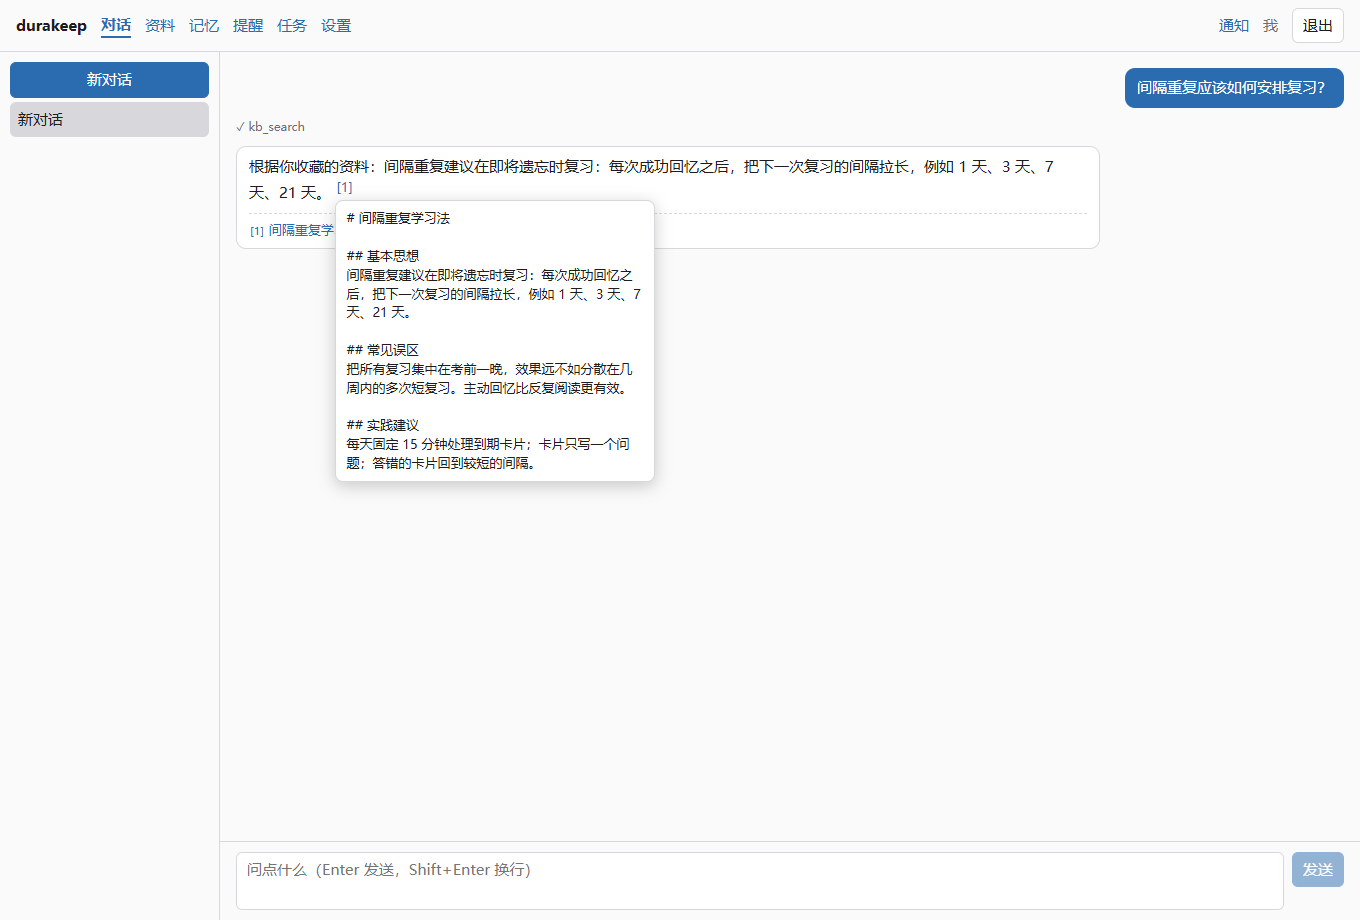
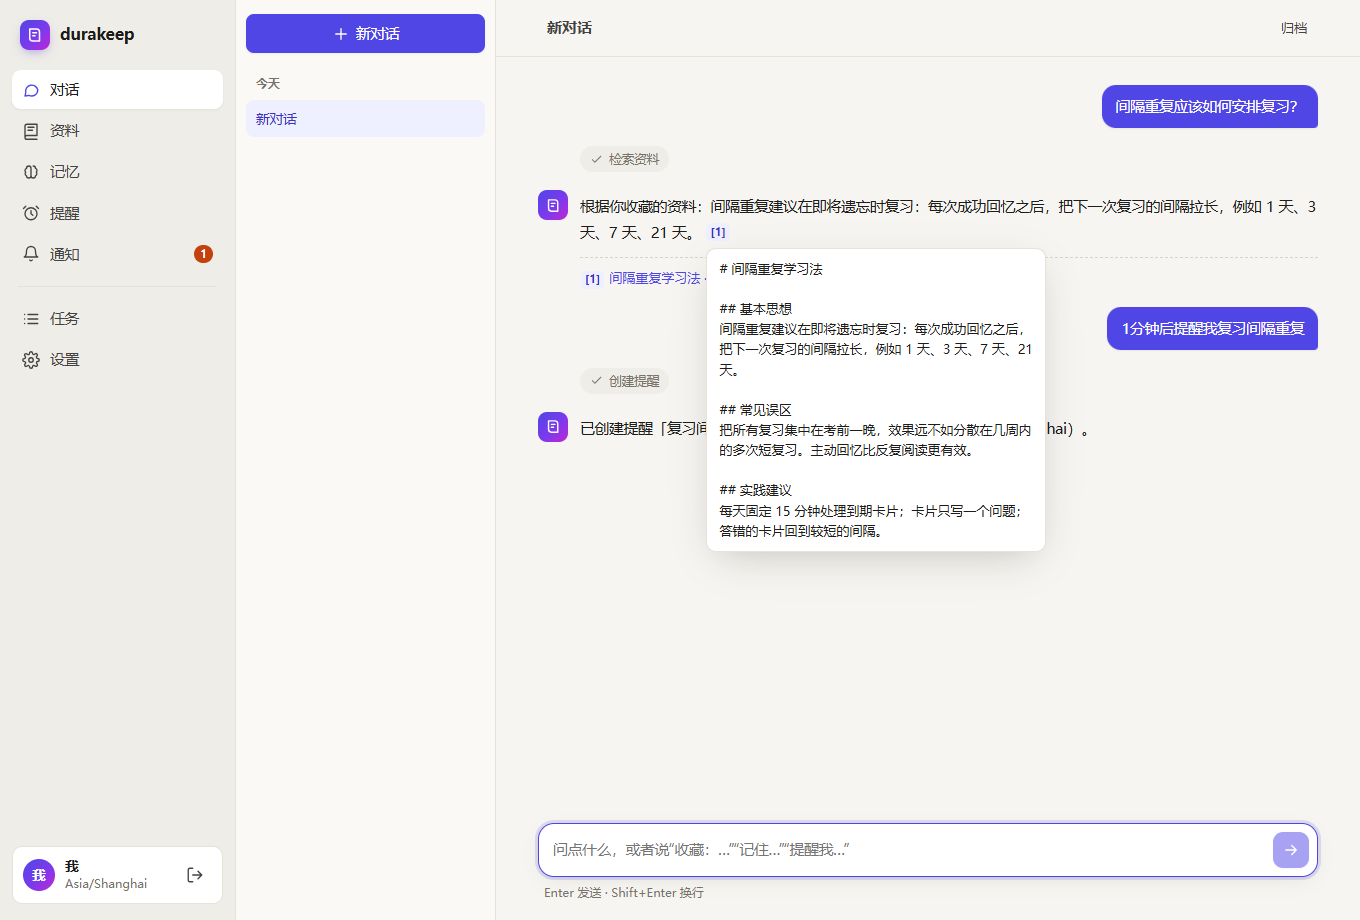
feat: paginate the Docs list, show original file formats; refresh demo assets
- Docs list fetched only the first page (20) with no way to load more;
  now 50 per page with "load more", and job-event refreshes keep the
  number already loaded instead of jumping back to page one.
- Migration 14 adds app_documents.source_format (pdf/docx/html, display
  only). Uploaded PDF/Word/HTML no longer show as "Markdown"; links that
  turn out to be PDFs show as "host · PDF". Distinct icons per format.
- Re-record docs/assets/demo.gif with the new UI (opens on the welcome
  screen) and regenerate chat-citations.png / settings-health.png from
  the same scripted demo run (mock model, zero cost); README captions
  updated.
- Docs: 04 data model gains source_format and the session columns from
  migration 13 that were missing; 06 documents list paging.

Tests: pnpm test 302, test:upgrade 20, test:recovery 18 (rerun after a
one-off hang in t11 that took 6.6k seconds; the file passed alone and
the full rerun passed), test:e2e and lint pass.

diff --git a/apps/web/src/Docs.tsx b/apps/web/src/Docs.tsx
@@ -37,8 +37,20 @@ const hostOf = (u: string | null) => {
     return "";
   }
 };
-const sourceLabel = (d: Doc) => (d.source_type === "url" ? (isFeishu(d.source_uri ?? "") ? "飞书文档" : hostOf(d.source_uri) || "网页") : d.source_type === "markdown" ? "Markdown" : "文本");
-const sourceIcon = (d: Doc) => (d.source_type === "url" ? "globe" : d.source_type === "markdown" ? "file" : "text");
+const FORMAT_LABEL: Record<string, string> = { pdf: "PDF", docx: "Word", html: "HTML" };
+const sourceLabel = (d: Doc) => {
+  if (d.source_type === "url") {
+    const where = isFeishu(d.source_uri ?? "") ? "飞书文档" : hostOf(d.source_uri) || "网页";
+    return d.source_format === "pdf" ? `${where} · PDF` : where;
+  }
+  if (d.source_format) return FORMAT_LABEL[d.source_format] ?? d.source_format;
+  return d.source_type === "markdown" ? "Markdown" : "文本";
+};
+const sourceIcon = (d: Doc) => (d.source_type === "url" ? "globe" : d.source_type === "markdown" || d.source_format ? "file" : "text");
+/** 图标底色：飞书蓝、网页青、PDF 红、Word 蓝，其余用主题色。 */
+const icoClass = (d: Doc) =>
+  d.source_type === "url" ? (isFeishu(d.source_uri ?? "") ? "feishu" : d.source_format === "pdf" ? "pdf" : "url") : (d.source_format ?? "");
+const PAGE = 50;
 
 export function Docs({ docId, feishu }: { docId: string | undefined; feishu: boolean }) {
   return docId ? <Detail id={docId} /> : <List feishu={feishu} />;
@@ -62,28 +74,45 @@ function List({ feishu }: { feishu: boolean }) {
   const [status, setStatus] = useState("");
   const [err, setErr] = useState("");
   const [tick, setTick] = useState(0);
-  const load = useCallback(() => {
-    const qs = new URLSearchParams();
-    if (q) qs.set("q", q);
-    if (status) qs.set("status", status);
-    api<{ items: Doc[] }>("GET", `/v1/documents?${qs}`).then(
-      (r) => {
-        setItems(r.items);
-        setLoaded(true);
-        setTick((t) => t + 1);
-      },
-      (e: Error) => setErr(e.message),
-    );
-  }, [q, status]);
-  useEffect(load, [load]);
-  useGlobalStream((ev) => ev === "job" && load());
+  const [cursor, setCursor] = useState<string | null>(null);
+  const [want, setWant] = useState(PAGE); // 想显示的条数；“加载更多”每次加一页
+  const [more, setMore] = useState(false);
+  /** 从头取够 want 条（作业事件刷新时也保持已展开的条数，不会跳回第一页）。 */
+  const load = useCallback(async () => {
+    const base = new URLSearchParams();
+    if (q) base.set("q", q);
+    if (status) base.set("status", status);
+    try {
+      const all: Doc[] = [];
+      let next: string | null = null;
+      do {
+        const qs = new URLSearchParams(base);
+        qs.set("limit", String(Math.min(100, Math.max(PAGE, want - all.length))));
+        if (next) qs.set("cursor", next);
+        const r: { items: Doc[]; next_cursor: string | null } = await api("GET", `/v1/documents?${qs}`);
+        all.push(...r.items);
+        next = r.next_cursor;
+      } while (next && all.length < want);
+      setItems(all);
+      setCursor(next);
+      setLoaded(true);
+      setTick((t) => t + 1);
+    } catch (e) {
+      setErr((e as Error).message);
+    } finally {
+      setMore(false);
+    }
+  }, [q, status, want]);
+  useEffect(() => void load(), [load]);
+  useEffect(() => setWant(PAGE), [q, status]);
+  useGlobalStream((ev) => ev === "job" && void load());
   const failed = useFailedJobs(tick);
   const filtering = q !== "" || status !== "";
   const hits = useFullText(q);
   return (
     <div className="page">
       <PageHead title="资料" desc="收藏的网页、文档和笔记都会被切分索引，对话时自动检索并标注出处。" />
-      <Capture onDone={load} feishu={feishu} />
+      <Capture onDone={() => void load()} feishu={feishu} />
       <div className="toolbar">
         <div className="search">
           <Icon name="search" />
@@ -120,7 +149,7 @@ function List({ feishu }: { feishu: boolean }) {
           const job = failed.get(d.id);
           return (
             <li key={d.id}>
-              <div className={`doc-ico ${d.source_type === "url" ? (isFeishu(d.source_uri ?? "") ? "feishu" : "url") : ""}`}><Icon name={sourceIcon(d)} /></div>
+              <div className={`doc-ico ${icoClass(d)}`}><Icon name={sourceIcon(d)} /></div>
               <div className="doc-main">
                 <a href={`#/docs/${d.id}`}>{d.title}</a>
                 <div className="doc-meta">
@@ -138,6 +167,13 @@ function List({ feishu }: { feishu: boolean }) {
           );
         })}
       </ul>
+      {cursor && (
+        <div className="row" style={{ justifyContent: "center", marginTop: 14 }}>
+          <button disabled={more} onClick={() => { setMore(true); setWant(items.length + PAGE); }}>
+            {more ? <span className="spinner" /> : null}加载更多
+          </button>
+        </div>
+      )}
     </div>
   );
 }
@@ -379,7 +415,7 @@ function Detail({ id }: { id: string }) {
       {d && (
         <>
           <div className="doc-head">
-            <div className={`doc-ico ${d.source_type === "url" ? (isFeishu(d.source_uri ?? "") ? "feishu" : "url") : ""}`}><Icon name={sourceIcon(d)} /></div>
+            <div className={`doc-ico ${icoClass(d)}`}><Icon name={sourceIcon(d)} /></div>
             <div className="grow" style={{ minWidth: 0 }}>
               <h2>{d.title}</h2>
               <div className="doc-meta">

diff --git a/packages/knowledge/src/knowledge.ts b/packages/knowledge/src/knowledge.ts
@@ -16,6 +16,7 @@ import {
   listVersions,
   normalizeTags,
   type DocumentRow,
+  type SourceFormat,
   type VersionRow,
 } from "./documents.ts";
 import { extractHtml, extractPlain, type Extracted } from "./extract.ts";
@@ -79,6 +80,8 @@ export type CaptureTextInput = {
   title?: string;
   text: string;
   tags?: unknown;
+  /** 上传文件的原始格式（转换成 Markdown 之前），只用于展示。 */
+  format?: SourceFormat;
 };
 export type CaptureUrlInput = { clientRequestId: string; url: string; tags?: unknown };
 
@@ -122,7 +125,7 @@ export class KnowledgeService {
   // ---- 采集 ----------------------------------------------------------------
 
   /** 文本 / Markdown 的校验与准备：校验入参、原始字节写 blob（内容寻址，重复写入无害）；返回幂等用的规范化参数和事务内的写入函数。 */
-  planCaptureText(ownerId: string, input: { kind: "text" | "markdown"; title?: string; text: unknown; tags?: unknown }): CapturePlan {
+  planCaptureText(ownerId: string, input: { kind: "text" | "markdown"; title?: string; text: unknown; tags?: unknown; format?: SourceFormat }): CapturePlan {
     if (typeof input.text !== "string" || input.text.trim() === "") {
       throw new AppError("invalid_request", "text 不能为空", { issues: [{ path: "text" }] });
     }
@@ -133,13 +136,13 @@ export class KnowledgeService {
     const title = userTitle ?? defaultTitle(text, input.kind);
     const hash = this.#d.blobs.put(Buffer.from(text, "utf8"));
     const now = this.#d.clock.now();
-    const args: Json = { type: input.kind, title: userTitle ?? null, hash, tags };
+    const args: Json = { type: input.kind, title: userTitle ?? null, hash, tags, ...(input.format ? { format: input.format } : {}) };
     return {
       args,
       run: async (tx) => {
         const dup = await findTextDuplicate(tx, ownerId, hash);
         if (dup) return { documentId: dup.id, jobId: null, status: dup.status as CaptureResult["status"], deduplicated: true };
-        const doc = await insertDocument(tx, now, { ownerId, sourceType: input.kind, sourceUri: null, title, tags });
+        const doc = await insertDocument(tx, now, { ownerId, sourceType: input.kind, sourceUri: null, title, tags, ...(input.format ? { sourceFormat: input.format } : {}) });
         await insertVersion(tx, now, { documentId: doc.id, ownerId, contentHash: hash, rawBlob: hash, parserVersion: "pending" });
         const { job } = await enqueue(tx, now, { ownerId, kind: "ingest_text", dedupeKey: `ingest_text:${doc.id}`, input: { documentId: doc.id, kind: input.kind } });
         return { documentId: doc.id, jobId: job.id, status: "pending" as const, deduplicated: false };
@@ -432,6 +435,10 @@ export class KnowledgeService {
             }
             rawHash = this.#d.blobs.put(res.bytes);
             contentType = res.contentType ?? "";
+            const media = contentType.split(";")[0]?.trim().toLowerCase();
+            if (media === "application/pdf" || media === "application/x-pdf") {
+              await this.#d.db.run("UPDATE app_documents SET source_format = 'pdf' WHERE owner_id = ? AND id = ?", ownerId, doc.id);
+            }
           }
           await ctx.save({ raw: rawHash, contentType });
           fault("job.after_fetch"); // 原文已写入 blob、版本记录尚未写入（R13）

diff --git a/packages/knowledge/src/documents.ts b/packages/knowledge/src/documents.ts
@@ -2,6 +2,7 @@ import { AppError, uuidv7 } from "@durakeep/core";
 import type { SqlExecutor } from "@durakeep/db";
 
 export type SourceType = "text" | "markdown" | "url";
+export type SourceFormat = "pdf" | "docx" | "html";
 export type DocumentStatus = "pending" | "ready" | "failed" | "revoked" | "purging" | "purged";
 
 export type DocumentRow = {
@@ -9,6 +10,7 @@ export type DocumentRow = {
   ownerId: string;
   sourceType: SourceType;
   sourceUri: string | null;
+  sourceFormat: SourceFormat | null;
   title: string;
   status: DocumentStatus;
   currentVersionId: string | null;
@@ -39,6 +41,7 @@ type DocRaw = {
   owner_id: string;
   source_type: SourceType;
   source_uri: string | null;
+  source_format: SourceFormat | null;
   title: string;
   status: DocumentStatus;
   current_version_id: string | null;
@@ -63,7 +66,7 @@ type VerRaw = {
   captured_at: number;
 };
 
-const DOC_COLS = "id, owner_id, source_type, source_uri, title, status, current_version_id, tags_json, error_code, created_at, updated_at";
+const DOC_COLS = "id, owner_id, source_type, source_uri, source_format, title, status, current_version_id, tags_json, error_code, created_at, updated_at";
 const VER_COLS = "id, document_id, owner_id, content_hash, raw_blob, text_blob, parser_version, status, title, summary, summary_edited, char_count, captured_at";
 
 const toDoc = (r: DocRaw): DocumentRow => ({
@@ -71,6 +74,7 @@ const toDoc = (r: DocRaw): DocumentRow => ({
   ownerId: r.owner_id,
   sourceType: r.source_type,
   sourceUri: r.source_uri,
+  sourceFormat: r.source_format ?? null,
   title: r.title,
   status: r.status,
   currentVersionId: r.current_version_id,
@@ -140,16 +144,17 @@ export async function findTextDuplicate(tx: SqlExecutor, ownerId: string, conten
 export async function insertDocument(
   tx: SqlExecutor,
   now: number,
-  d: { ownerId: string; sourceType: SourceType; sourceUri: string | null; title: string; tags: string[] },
+  d: { ownerId: string; sourceType: SourceType; sourceUri: string | null; title: string; tags: string[]; sourceFormat?: SourceFormat },
 ): Promise<DocumentRow> {
   const id = uuidv7(now);
   await tx.run(
-    `INSERT INTO app_documents (id, owner_id, source_type, source_uri, title, status, tags_json, created_at, updated_at)
-     VALUES (?, ?, ?, ?, ?, 'pending', ?, ?, ?)`,
+    `INSERT INTO app_documents (id, owner_id, source_type, source_uri, source_format, title, status, tags_json, created_at, updated_at)
+     VALUES (?, ?, ?, ?, ?, ?, 'pending', ?, ?, ?)`,
     id,
     d.ownerId,
     d.sourceType,
     d.sourceUri,
+    d.sourceFormat ?? null,
     d.title,
     JSON.stringify(d.tags),
     now,

diff --git a/scripts/record-demo.ts b/scripts/record-demo.ts
@@ -1,5 +1,5 @@
 // 录制 README 演示 GIF：隔离启动 demo（faux 模型，零费用），用 Playwright 录屏，再由 ffmpeg 裁掉等待并导出。
-// 用法：node scripts/record-demo.ts   产出 docs/assets/demo.gif（需要 ffmpeg 与本机 Edge/Chrome）
+// 用法：node scripts/record-demo.ts   产出 docs/assets/demo.gif，并顺带更新 README 用的两张截图（需要 ffmpeg 与本机 Edge/Chrome）
 import { chromium } from "@playwright/test";
 import { execFileSync } from "node:child_process";
 import { existsSync, mkdirSync, rmSync, writeFileSync } from "node:fs";
@@ -41,9 +41,10 @@ try {
   await page.goto(demo.url);
   await page.getByPlaceholder("口令").fill("demodemo");
   await page.getByRole("button", { name: "登录" }).click();
-  await page.waitForTimeout(500);
+  await page.getByText("问问你收藏过的资料").waitFor();
   const start = now(); // 登录前的画面不进 GIF
   grabber = grab();
+  await page.waitForTimeout(1800); // 欢迎页：问候、资料 / 记忆 / 提醒计数、示例问题
 
   await nav("资料");
   await page.getByRole("button", { name: "粘贴文本" }).click();
@@ -96,6 +97,22 @@ try {
   execFileSync("ffmpeg", ["-v", "error", "-y", ...input, "-vf", `${vf},palettegen=max_colors=96`, palette]);
   execFileSync("ffmpeg", ["-v", "error", "-y", ...input, "-i", palette, "-lavfi", `${vf}[x];[x][1:v]paletteuse=dither=bayer:bayer_scale=4`, gif]);
   console.log(`${kept.length} 帧，裁掉 ${(cut[1] - cut[0]).toFixed(1)}s 等待 → ${gif}`);
+
+  // README 截图：与旧图同尺寸（1360×920）
+  await page.setViewportSize({ width: 1360, height: 920 });
+  await nav("对话");
+  await page.getByRole("complementary").getByRole("link").first().click();
+  const shotCite = page.locator(".msg.assistant .cite").filter({ hasText: "[1]" }).first();
+  await shotCite.hover();
+  await page.locator(".tip").first().waitFor();
+  await page.waitForTimeout(400);
+  await page.screenshot({ path: join(root, "docs", "assets", "chat-citations.png") });
+  await page.mouse.move(5, 5);
+  await nav("设置");
+  await page.getByText("数据库逻辑大小", { exact: true }).waitFor();
+  await page.waitForTimeout(800);
+  await page.screenshot({ path: join(root, "docs", "assets", "settings-health.png") });
+  console.log("截图已更新：chat-citations.png、settings-health.png");
 } finally {
   await browser.close().catch(() => undefined);
   await demo.stop();

diff --git a/apps/web/src/styles.css b/apps/web/src/styles.css
@@ -426,6 +426,9 @@ mark { background: color-mix(in srgb, #facc15 45%, transparent); color: inherit;
 .doc-list li:hover { border-color: var(--line-2); box-shadow: var(--shadow); }
 .doc-ico { width: 38px; height: 38px; border-radius: 10px; display: grid; place-items: center; flex: none; background: var(--acc-soft); color: var(--acc); }
 .doc-ico.url { background: color-mix(in srgb, #0891b2 14%, transparent); color: #0891b2; }
+.doc-ico.pdf { background: color-mix(in srgb, #dc2626 13%, transparent); color: #dc2626; }
+.doc-ico.docx { background: color-mix(in srgb, #2563eb 13%, transparent); color: #2563eb; }
+.doc-ico.html { background: color-mix(in srgb, #ea580c 13%, transparent); color: #ea580c; }
 .doc-ico.feishu { background: color-mix(in srgb, #3370ff 14%, transparent); color: #3370ff; }
 .doc-main { flex: 1; min-width: 0; }
 .doc-main a { color: var(--fg); font-weight: 600; display: block; overflow: hidden; text-overflow: ellipsis; white-space: nowrap; }

diff --git a/tests/upgrade/r11.test.ts b/tests/upgrade/r11.test.ts
@@ -38,8 +38,8 @@ test.each(Array.from({ length: 20 }, (_, i) => ({ round: i + 1, restartLimit: i 
     const raw = await openAppDatabase(join(copyDir, "app.sqlite"));
     const db = guardDb(raw);
     closeCandidate = () => db.close();
-    expect(await migrate(db)).toBe(3);
-    expect(await db.all("SELECT id FROM app_migrations WHERE id > 10 ORDER BY id")).toEqual([{ id: 11 }, { id: 12 }, { id: 13 }]);
+    expect(await migrate(db)).toBe(4);
+    expect(await db.all("SELECT id FROM app_migrations WHERE id > 10 ORDER BY id")).toEqual([{ id: 11 }, { id: 12 }, { id: 13 }, { id: 14 }]);
     const events = new EventStore(db, systemClock);
     const { auth, app } = createApp({ db, clock: systemClock, events, origin });
     const owner = await auth.initOwner({ password: "fixture password", timezone: "UTC" });

diff --git a/apps/server/src/routes-documents.ts b/apps/server/src/routes-documents.ts
@@ -12,6 +12,7 @@ const presentDoc = (d: DocumentRow) => ({
   id: d.id,
   source_type: d.sourceType,
   source_uri: d.sourceUri,
+  source_format: d.sourceFormat,
   title: d.title,
   status: d.status,
   tags: d.tags,
@@ -151,6 +152,7 @@ export function mountDocumentRoutes(
       r = await knowledge.captureText(owner.id, {
         clientRequestId: form.client_request_id as string,
         kind,
+        ...(uploadKind === "pdf" || uploadKind === "docx" || uploadKind === "html" ? { format: uploadKind } : {}),
         // 标题优先级：文档自己的标题 > 文件名（只当标题用）> 首行文字（由 captureText 兜底）
         title: ownTitle || (uploadKind === "html" ? titleFromFilename(file.name) : undefined) || undefined,
         text,

diff --git a/packages/knowledge/src/index.ts b/packages/knowledge/src/index.ts
@@ -8,7 +8,7 @@ export { assertRobotsAllows, safeFetch, DEFAULT_POLICY, USER_AGENT, type FetchPo
 export { isPublicIp } from "./ssrf.ts";
 export { normalizeUrl, urlHash } from "./url.ts";
 export { blocksToMarkdown, FeishuDocsClient, feishuDocsFromEnv, loginWallFor, looksLikeLoginPage, parseFeishuUrl, type FeishuLink } from "./feishu.ts";
-export { normalizeTags, type DocumentRow, type VersionRow } from "./documents.ts";
+export { normalizeTags, type DocumentRow, type SourceFormat, type VersionRow } from "./documents.ts";
 export {
   KnowledgeService,
   MAX_TEXT_CHARS,

diff --git a/packages/db/src/migrate.ts b/packages/db/src/migrate.ts
@@ -328,6 +328,11 @@ export const MIGRATIONS: readonly { id: number; sql: string }[] = [
       ALTER TABLE app_sessions ADD COLUMN persistent INTEGER NOT NULL DEFAULT 1;
     `,
   },
+  {
+    // 资料的原始格式（上传的 PDF / Word / HTML 会转成 Markdown 存储；网页链接指向 PDF 时也记 pdf），只用于展示
+    id: 14,
+    sql: `ALTER TABLE app_documents ADD COLUMN source_format TEXT CHECK (source_format IN ('pdf','docx','html'));`,
+  },
 ];
 
 export async function migrate(db: SqlDatabase): Promise<number> {

diff --git a/packages/db/src/migrate.test.ts b/packages/db/src/migrate.test.ts
@@ -31,7 +31,7 @@ function memDb(): SqlDatabase {
 
 test("迁移幂等，且只创建 app_ 前缀的表", async () => {
   const db = memDb();
-  expect(await migrate(db)).toBe(13);
+  expect(await migrate(db)).toBe(14);
   expect(await migrate(db)).toBe(0);
   const tables = (await db.all<{ name: string }>("SELECT name FROM sqlite_master WHERE type='table' AND name NOT LIKE 'sqlite_%'")).map((t) => t.name);
   expect(tables.every((t) => t.startsWith("app_"))).toBe(true);

diff --git a/apps/web/src/api.ts b/apps/web/src/api.ts
@@ -70,6 +70,8 @@ export type Doc = {
   id: string;
   source_type: string;
   source_uri: string | null;
+  /** 上传或链接的原始格式（pdf / docx / html）；null 表示与 source_type 一致。 */
+  source_format?: "pdf" | "docx" | "html" | null;
   title: string;
   status: string;
   tags: string[];
